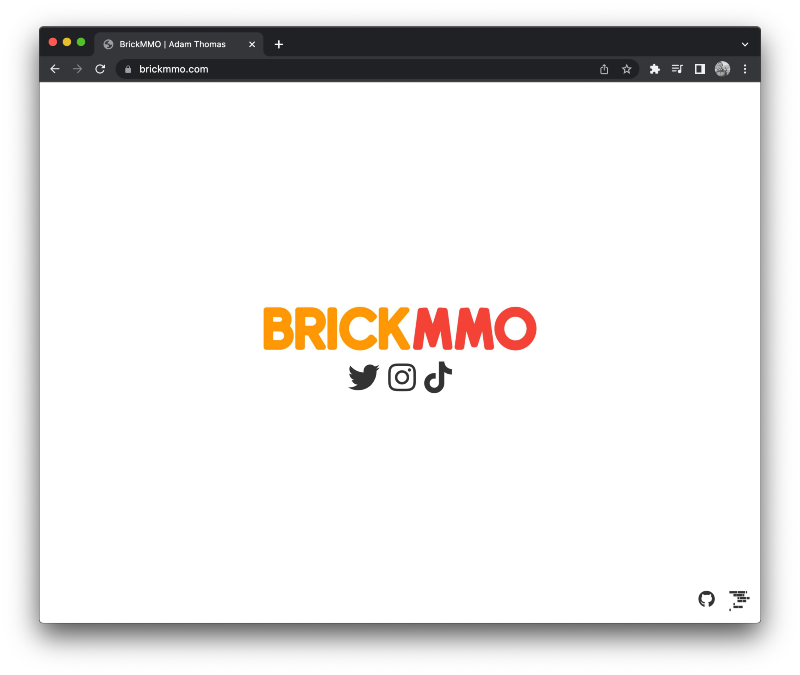
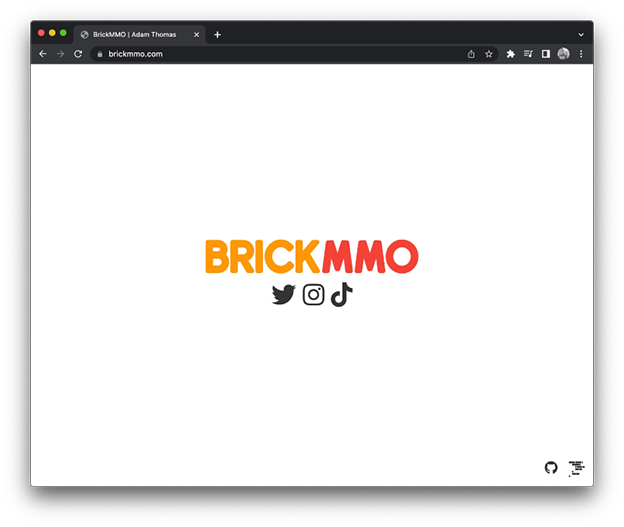
Resized images

Changed region(s): [[0.4872, 0.5465, 0.5176, 0.5769], [0.2131, 0.0911, 0.2436, 0.1214]]

diff --git a/README.md b/README.md
@@ -4,6 +4,9 @@ A basic splash page for the [BrickMMO Smart City](https://brickmmo.com).
 
 ![BrickMMO](_readme/screenshot-brickmmo.png)
 
+> This repo is available to view at  
+> [https://brickmmo.com](https://brickmmo.com)
+
 ---
 
 ## Project Stack
